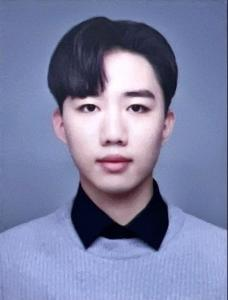
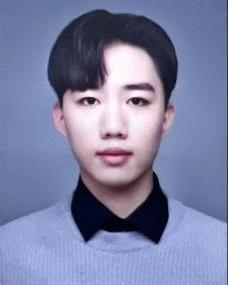
alt img enabled

diff --git a/members/researcher.html b/members/researcher.html
@@ -46,11 +46,9 @@ group: members
         {% if member.position contains "Affiliate" %}
           {% continue %}
         {% endif %}
-
-        
         <!-- The paddingtop and margin-top edits allow anchors to link properly. -->
         <div id = "{{member.name}}" class="row" style="padding-top: 60px; margin-top: -60px;">
-            <div class="col-sm-4">
+          <div class="col-sm-4">
                 <img class="img-fluid" src="{{member.image}}" {% if member.altimage %} onmouseover="this.src='{{member.altimage}}';" onmouseout="this.src='{{member.image}}';" {% endif %} alt="{{member.name}}"; width="365"; height="365"><br>
 
                 <a href="{{ member.url }}" title = "More about {{member.name}} " target="_blank"><strong>{{member.name}}</strong></a>

diff --git a/_includes/image-box.html b/_includes/image-box.html
@@ -1,0 +1,27 @@
+<!-- 이미지 박스 -->
+<!-- <div class="image-container">
+    <img src="/assets/images/sample.jpg" alt="샘플 이미지" />
+  </div>
+   -->
+   <div class="image-container">
+    <img src="{{ include.src }}" alt="{{ include.alt | default: 'image' }}" />
+  </div>
+
+  <style>
+  .image-container {
+    width: 240px;      /* 원하는 너비 */
+    height: 300px;     /* 원하는 높이 */
+    overflow: hidden;  /* 넘치는 부분 잘라냄 */
+    position: relative;
+  }
+  
+  .image-container img {
+    position: absolute;
+    top: 50%;
+    left: 50%;
+    min-width: 100%;
+    min-height: 100%;
+    transform: translate(-50%, -50%);
+    object-fit: cover;
+  }
+  </style>

diff --git a/static/img/members/crop.py b/static/img/members/crop.py
@@ -1,0 +1,61 @@
+import os
+from PIL import Image, ImageOps
+
+def center_crop_to_ratio(img: Image.Image, target_ratio=(1, 1)):
+    orig_width, orig_height = img.size
+    target_w, target_h = target_ratio
+
+    desired_ratio = target_w / target_h
+    current_ratio = orig_width / orig_height
+
+    if current_ratio > desired_ratio:
+        # 이미지가 너무 넓음 → 좌우 잘라냄
+        new_width = int(orig_height * desired_ratio)
+        new_height = orig_height
+        left = (orig_width - new_width) // 2
+        top = 0
+    else:
+        # 이미지가 너무 높음 → 위아래 잘라냄
+        new_width = orig_width
+        new_height = int(orig_width / desired_ratio)
+        left = 0
+        top = (orig_height - new_height) // 2
+
+    right = left + new_width
+    bottom = top + new_height
+
+    return img.crop((left, top, right, bottom))
+
+def process_images_in_folder(folder_path, target_ratio=(1, 1)):
+    supported_ext = ['.jpg', '.jpeg', '.png', '.bmp', '.tif', '.tiff']
+    for filename in os.listdir(folder_path):
+        name, ext = os.path.splitext(filename)
+        ext = ext.lower()
+
+        if ext not in supported_ext:
+            continue
+
+        input_path = os.path.join(folder_path, filename)
+        with Image.open(input_path) as img:
+            img = ImageOps.exif_transpose(img)  # <-- 이 줄 추가!
+
+            # 기존 DPI 정보 유지 (없으면 72로)
+            dpi = img.info.get('dpi', (72, 72))
+
+            # # 백업: 원본을 jpg로 저장
+            # original_jpg_path = os.path.join(folder_path, f"original_{name}.jpg")
+            # img.convert("RGB").save(original_jpg_path, format='JPEG', dpi=dpi)
+
+            # 중심 크롭
+            cropped = center_crop_to_ratio(img, target_ratio=target_ratio)
+
+            # 덮어쓰기: 수정된 이미지를 .jpg로 저장
+            output_path = os.path.join(f"{name}.jpg")
+            cropped.convert("RGB").save(output_path, format='JPEG', dpi=dpi)
+            print(f"Saved cropped image to {output_path}")
+
+    print("✅ 처리 완료!")
+
+# 사용 예: 현재 폴더에 있는 이미지들을 1:1 비율로 변환
+process_images_in_folder("./original_pics", target_ratio=(240, 300))
+

diff --git a/_members/yhJeong.md b/_members/yhJeong.md
@@ -1,22 +1,23 @@
 ---
 #REQUIRED
 layout: members
-title: Youngho Jeong #This is the title of your page. It will be displayed in the navigation bar and on the page itself.
-name: Youngho Jeong #Include "Ph.D."" if applicable
-timeline_name: Youngho #If you would like your name to appear differently on the Lab timeline, fill out this line.
+title: Yeongho Jeong #This is the title of your page. It will be displayed in the navigation bar and on the page itself.
+name: Yeongho Jeong #Include "Ph.D."" if applicable
+timeline_name: Yeongho #If you would like your name to appear differently on the Lab timeline, fill out this line.
 startdate: [2023-09-01] #Enter your start date
 enddate: # [2025-08-14] # Leave this blank until you leave the lab
-image: /static/img/dummy_img.jpg #365 x 365 pixels, 72 dpi
-altimage: #/static/img/members/msSeo.jpg #365 x 365 pixels, 72 dpi
+image: /static/img/members/yhJeong.jpg 
+altimage: #/static/img/members/msSeo.jpg 
 position: Master Student #What is your job title in the Fraser lab?
 subsequent: #Leave this blank until you leave the lab
 pronouns: he/him/his
-email: #seominseok@gm.gist.ac.kr #Enter your preferred public e-mail address
-scholar: #Google Scholar User ID, create if you don't have one
-github: #seominseok00
-orcid:  #ORCID, create if you don't have one
+email: bbang988@gm.gist.ac.kr  #Enter your preferred public e-mail address
+scholar: green4338 #Google Scholar User ID, create if you don't have one
+github: YHJeong1231
+orcid: 0000-0002-2676-2535 #ORCID, create if you don't have one
 description: "
+**Yeongho Jeong** received the B.S. degree in _Department of Electronic Engineering_ from [**Kumoh National Institute of Tecnology**](https://www.kumoh.ac.kr/ko/index.do?sso=ok) and is currently pursuing the M.S. degree in _Department of Mechanical Engineering_ at the [**Gwangju Institute of Science and Technology (GIST)**](https://www.gist.ac.kr/en/main.html), South Korea.
 
-
+His research interests are **neural networks** and **robust control**.
 "
 ---

diff --git a/_members/jyKim.md b/_members/jyKim.md
@@ -6,15 +6,15 @@ name: Jiyun Kim #Include "Ph.D."" if applicable
 timeline_name: Jiyun #If you would like your name to appear differently on the Lab timeline, fill out this line.
 startdate: [2024-03-01] #Enter your start date
 enddate: # [2025-02-02] # Leave this blank until you leave the lab
-image: /static/img/members/jyKim.jpeg #365 x 365 pixels, 72 dpi
-altimage: /static/img/members/jyKim.jpeg #365 x 365 pixels, 72 dpi
+image: /static/img/members/jyKim.jpg 
+altimage: /static/img/members/jyKim-alt.jpg 
 position: Master Student #What is your job title in the Fraser lab?
 subsequent: #Leave this blank until you leave the lab
 pronouns: she/her/her
 email: jiyun6606@gm.gist.ac.kr #Enter your preferred public e-mail address
 scholar:  #Google Scholar User ID, create if you don't have one
 github: jixyuxn
-orcid:  #ORCID, create if you don't have one
+orcid:  0009-0003-0026-4495 #ORCID, create if you don't have one
 description: "
 
 **Jiyun Kim** received the B.S. degree in _Department of Robot Engineering_ from [**Keimyung Universitiy**](https://www.kmu.ac.kr/uni/main/main.jsp), South Korea, in 2024, and is currently  pursuing an M.S. degree in _Artificial Intelligence Graduate School_ from [**Gwangju Institute of Science and Technology (GIST)**](https://www.gist.ac.kr/en/main.html), South Korea. 

diff --git a/_members/msRyu.md b/_members/msRyu.md
@@ -6,13 +6,13 @@ name: Myeongseok Ryu #Include "Ph.D."" if applicable
 timeline_name: Myeongseok #If you would like your name to appear differently on the Lab timeline, fill out this line.
 startdate: [2023-03-01] #Enter your start date
 enddate: # [2025-02-02] # Leave this blank until you leave the lab
-image: /static/img/members/msRyu.jpg #365 x 365 pixels, 72 dpi
-altimage: /static/img/members/msRyu.jpg #365 x 365 pixels, 72 dpi
+image: /static/img/members/msRyu.jpg 
+altimage: /static/img/members/msRyu-alt.jpg 
 position: Ph.D. Student #What is your job title in the Fraser lab?
 subsequent: #Leave this blank until you leave the lab
 pronouns: he/him/his
 email: dding_98@gm.gist.ac.kr #Enter your preferred public e-mail address
-scholar: msryu00 #Google Scholar User ID, create if you don't have one
+scholar: gUHuDJ4AAAAJ #Google Scholar User ID, create if you don't have one
 github: DDingR
 orcid: 0009-0004-3279-5765 #ORCID, create if you don't have one
 description: "

diff --git a/_templates/_post.md b/_templates/_post.md
@@ -1,0 +1,26 @@
+---
+published: True
+title: GIST Lab Crew
+author: Myeongseok Ryu
+layout: post
+group: news
+tags: general
+---
+<div class="row">
+
+We are moving to KAIST!.
+Remaining members of the GIST MIC lab took a group photo before leaving Gwangju.
+<div style="text-align: center;">
+<img class="img-fluid" src="/static/posts/GISTLabCrew.jpg" alt="qFit" style="width: 60%; height: auto;">
+</div>
+
+From left to right:
+- **Seunghoon Jang** (Ph.D. Student)
+- **Myeongseok Ryu** (Ph.D. Student)
+- **Jiyun Kim** (Master Student)
+- **Donghwa Hong** (Master Student)
+- **Hyochan Lee** (Ph.D. Student)
+- **Minseok Seo** (Master Student)
+- **Yeongho Jeong** (Master Student) (unable to attend)
+
+</div>
